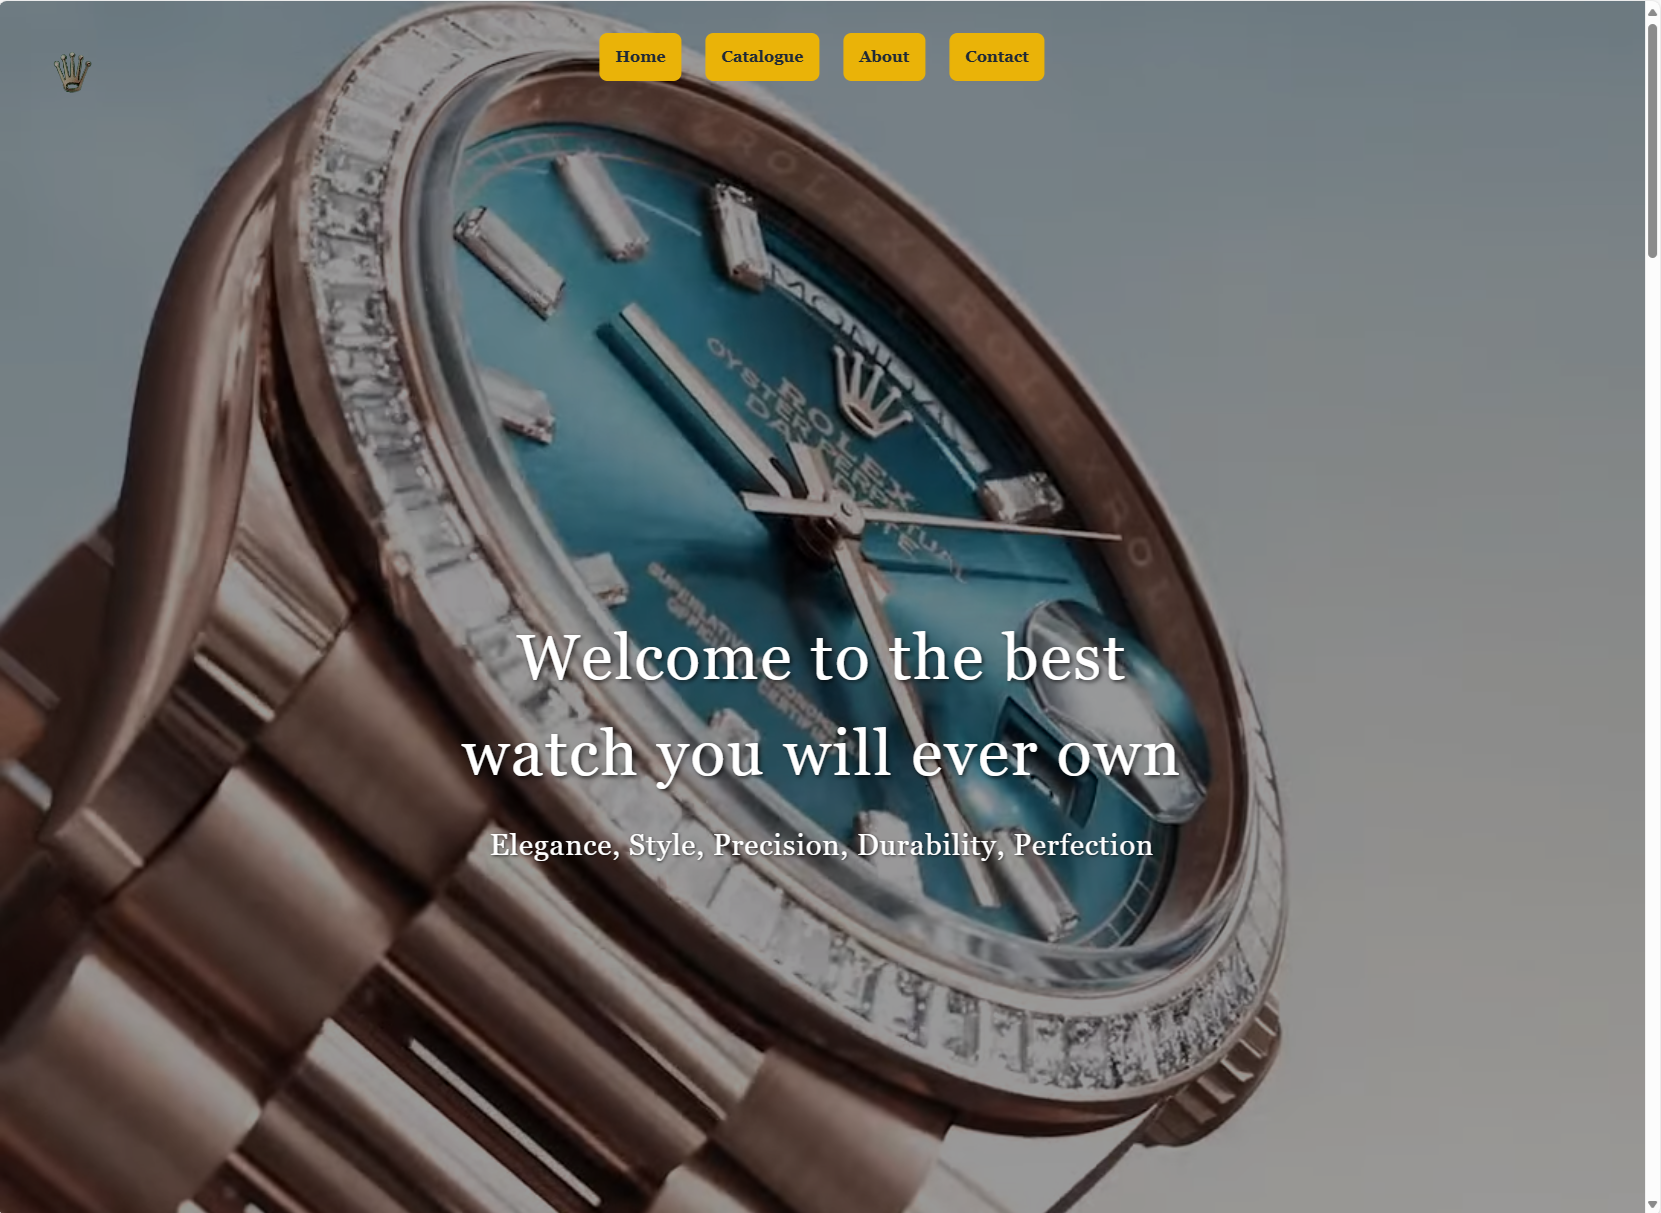
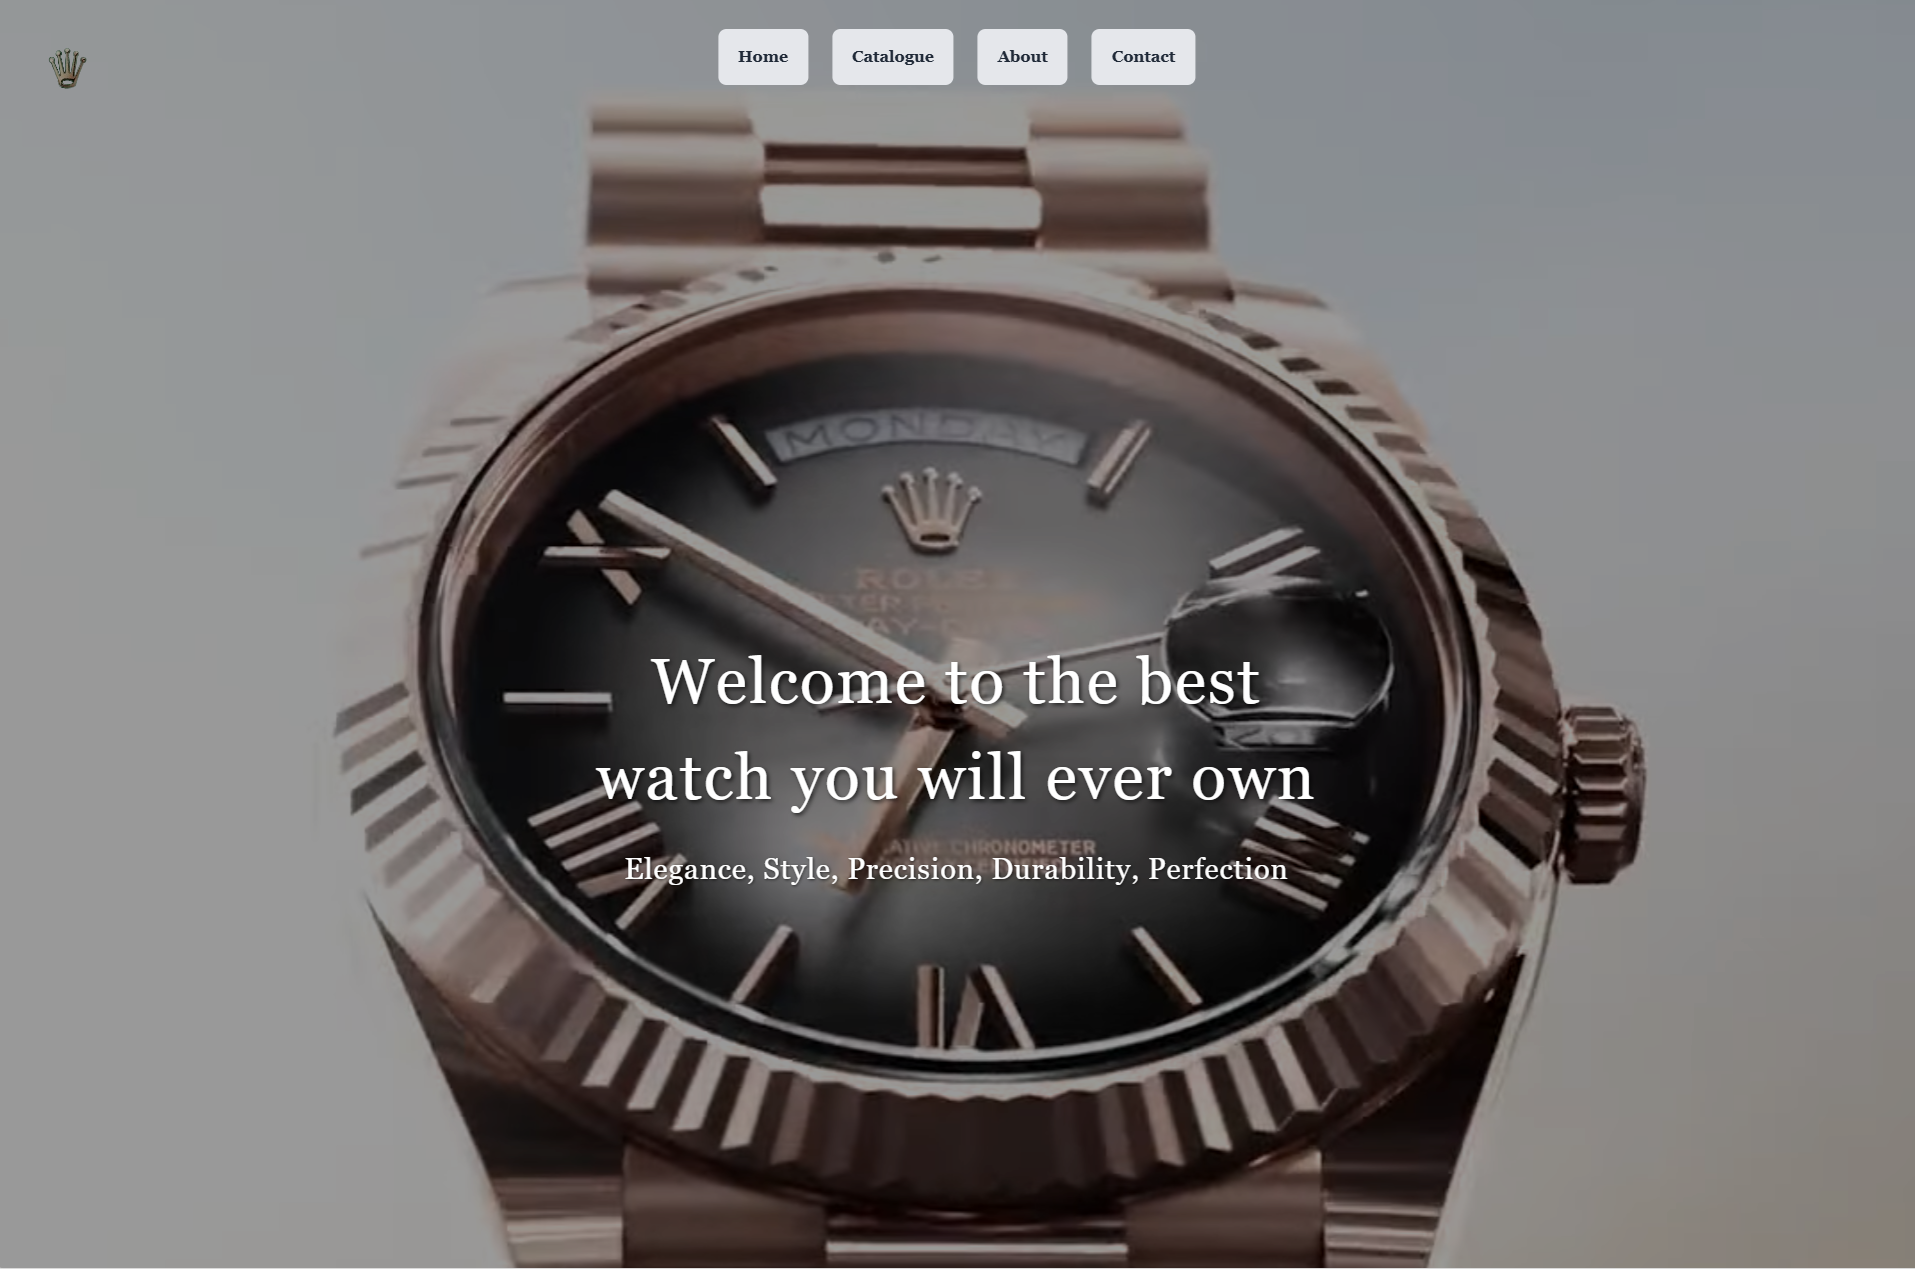
Updated Watch site buttons, reflected change with preview image

diff --git a/docs/Mock_Websites/Watch_Website/index.html b/docs/Mock_Websites/Watch_Website/index.html
@@ -233,16 +233,16 @@
         <div class="video-overlay"></div>
         
         <nav class="fixed top-8 left-1/2 transform -translate-x-1/2 z-10 flex space-x-6">
-          <button class="bg-yellow-500 hover:bg-yellow-600 px-4 py-3 rounded-lg transition-colors">
+          <button class="bg-gray-200 hover:bg-gray-400 px-5 py-4 rounded-lg transition-colors">
             <a href="#" class="text-gray-800 font-bold">Home</a>
           </button>
-          <button class="bg-yellow-500 hover:bg-yellow-600 px-4 py-3 rounded-lg transition-colors">
+          <button class="bg-gray-200 hover:bg-gray-400 px-5 py-4 rounded-lg transition-colors">
             <a href="#" class="text-gray-800 font-bold">Catalogue</a>
           </button>
-          <button class="bg-yellow-500 hover:bg-yellow-600 px-4 py-3 rounded-lg transition-colors">
+          <button class="bg-gray-200 hover:bg-gray-400 px-5 py-4 rounded-lg transition-colors">
             <a href="#" class="text-gray-800 font-bold">About</a>
           </button>
-          <button class="bg-yellow-500 hover:bg-yellow-600 px-4 py-3 rounded-lg transition-colors">
+          <button class="bg-gray-200 hover:bg-gray-400 px-5 py-4 rounded-lg transition-colors">
             <a href="#" class="text-gray-800 font-bold">Contact</a>
           </button>
         </nav>
